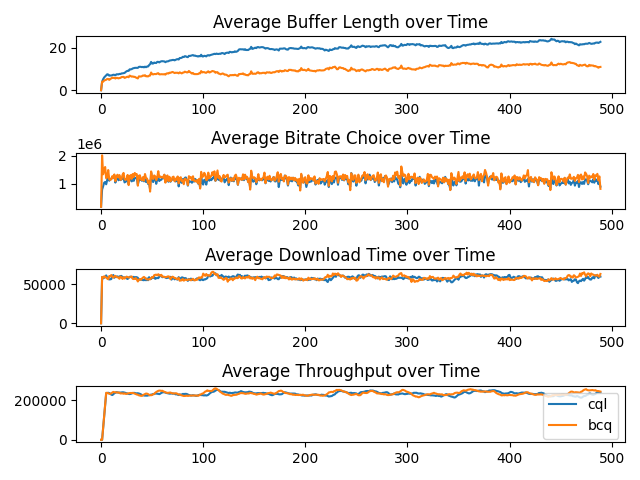
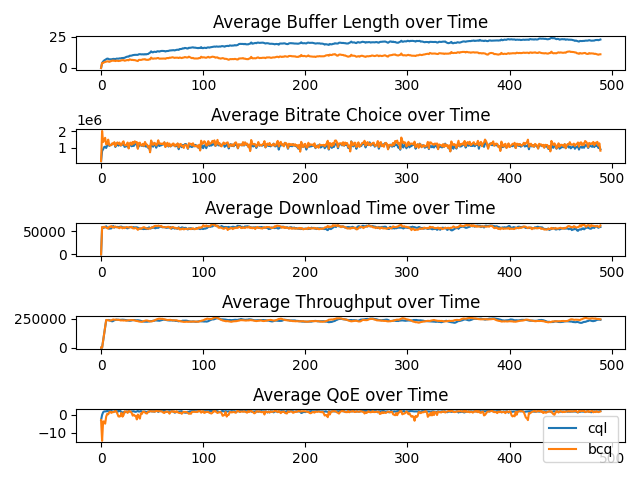
added avg QoE graph

diff --git a/evaluate_model.py b/evaluate_model.py
@@ -25,7 +25,12 @@ def evaluate_agent(agent):
         done = False
         t = 0
         rews = []
-        metrics = {"action": [], "buffer_length": [], "action_bitrate": [], "download_time": [], "throughput": []}
+        metrics = {"action": [],
+                    "buffer_length": [],
+                    "action_bitrate": [],
+                    "download_time": [],
+                    "throughput": [],
+                    "reward": []}
         while not done:
             # Choose an action through random policy
             act = agent.predict(obs[np.newaxis, :]).item()
@@ -38,6 +43,8 @@ def evaluate_agent(agent):
             # Take the action
             next_obs, rew, done, info = env.step(act)
             rews.append(rew)
+
+            metrics["reward"].append(rew)
 
             # Print some statistics
             #print(f'At chunk {t}, the agent took action {act}, and got a reward {rew}')
@@ -105,25 +112,33 @@ def plot_trajectory_overlay(cql_trajectories, bcq_trajectories):
     cql_avg_throughput = average_trajectory(cql_trajectories, "throughput")
     bcq_avg_throughput = average_trajectory(bcq_trajectories, "throughput")
 
-    plt.subplot(411)
+    cql_avg_reward = average_trajectory(cql_trajectories, "reward")
+    bcq_avg_reward = average_trajectory(bcq_trajectories, "reward")
+
+    plt.subplot(511)
     plt.plot(cql_avg_buffer_length, label="cql")
     plt.plot(bcq_avg_buffer_length, label="bcq")
     plt.title("Average Buffer Length over Time")
 
-    plt.subplot(412)
+    plt.subplot(512)
     plt.plot(cql_avg_action_bitrate, label="cql")
     plt.plot(bcq_avg_action_bitrate, label="bcq")
     plt.title("Average Bitrate Choice over Time")
 
-    plt.subplot(413)
+    plt.subplot(513)
     plt.plot(cql_avg_download_time, label="cql")
     plt.plot(bcq_avg_download_time, label="bcq")
     plt.title("Average Download Time over Time")
 
-    plt.subplot(414)
+    plt.subplot(514)
     plt.plot(cql_avg_throughput, label="cql")
     plt.plot(bcq_avg_throughput, label="bcq")
     plt.title("Average Throughput over Time")
+
+    plt.subplot(515)
+    plt.plot(cql_avg_reward, label="cql")
+    plt.plot(bcq_avg_reward, label="bcq")
+    plt.title("Average QoE over Time")
 
     plt.tight_layout(pad=1.0)
     plt.legend()
